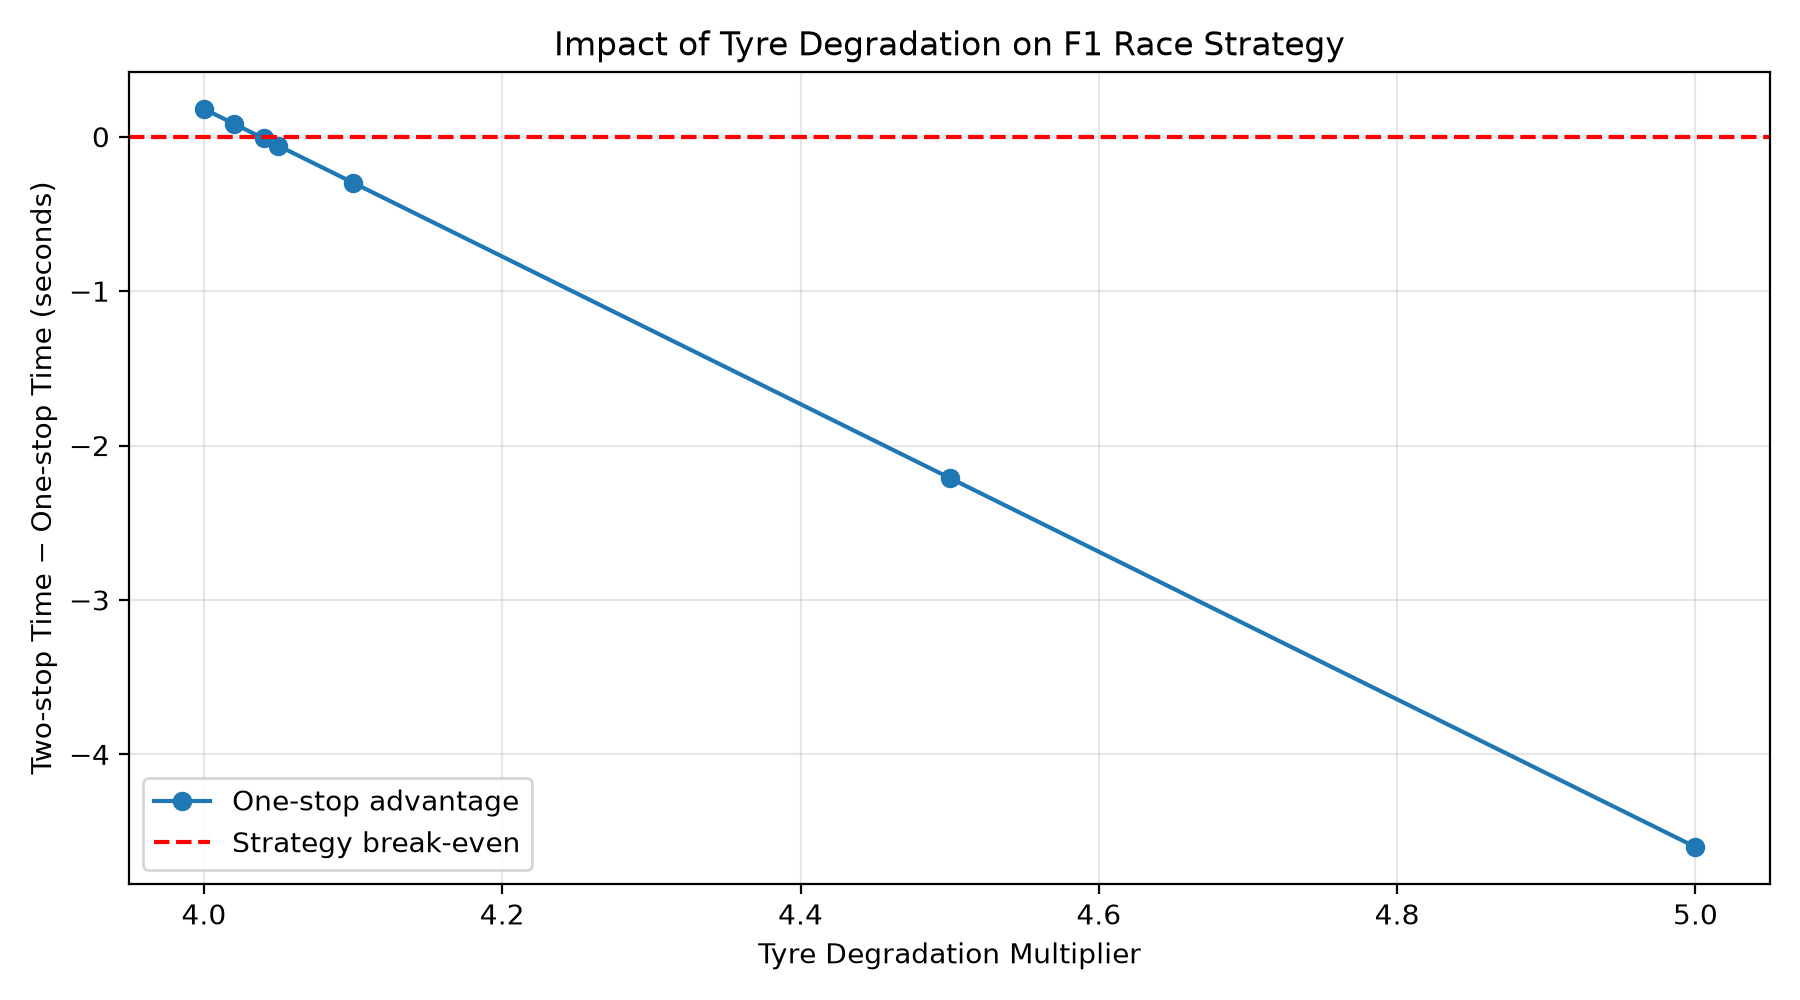
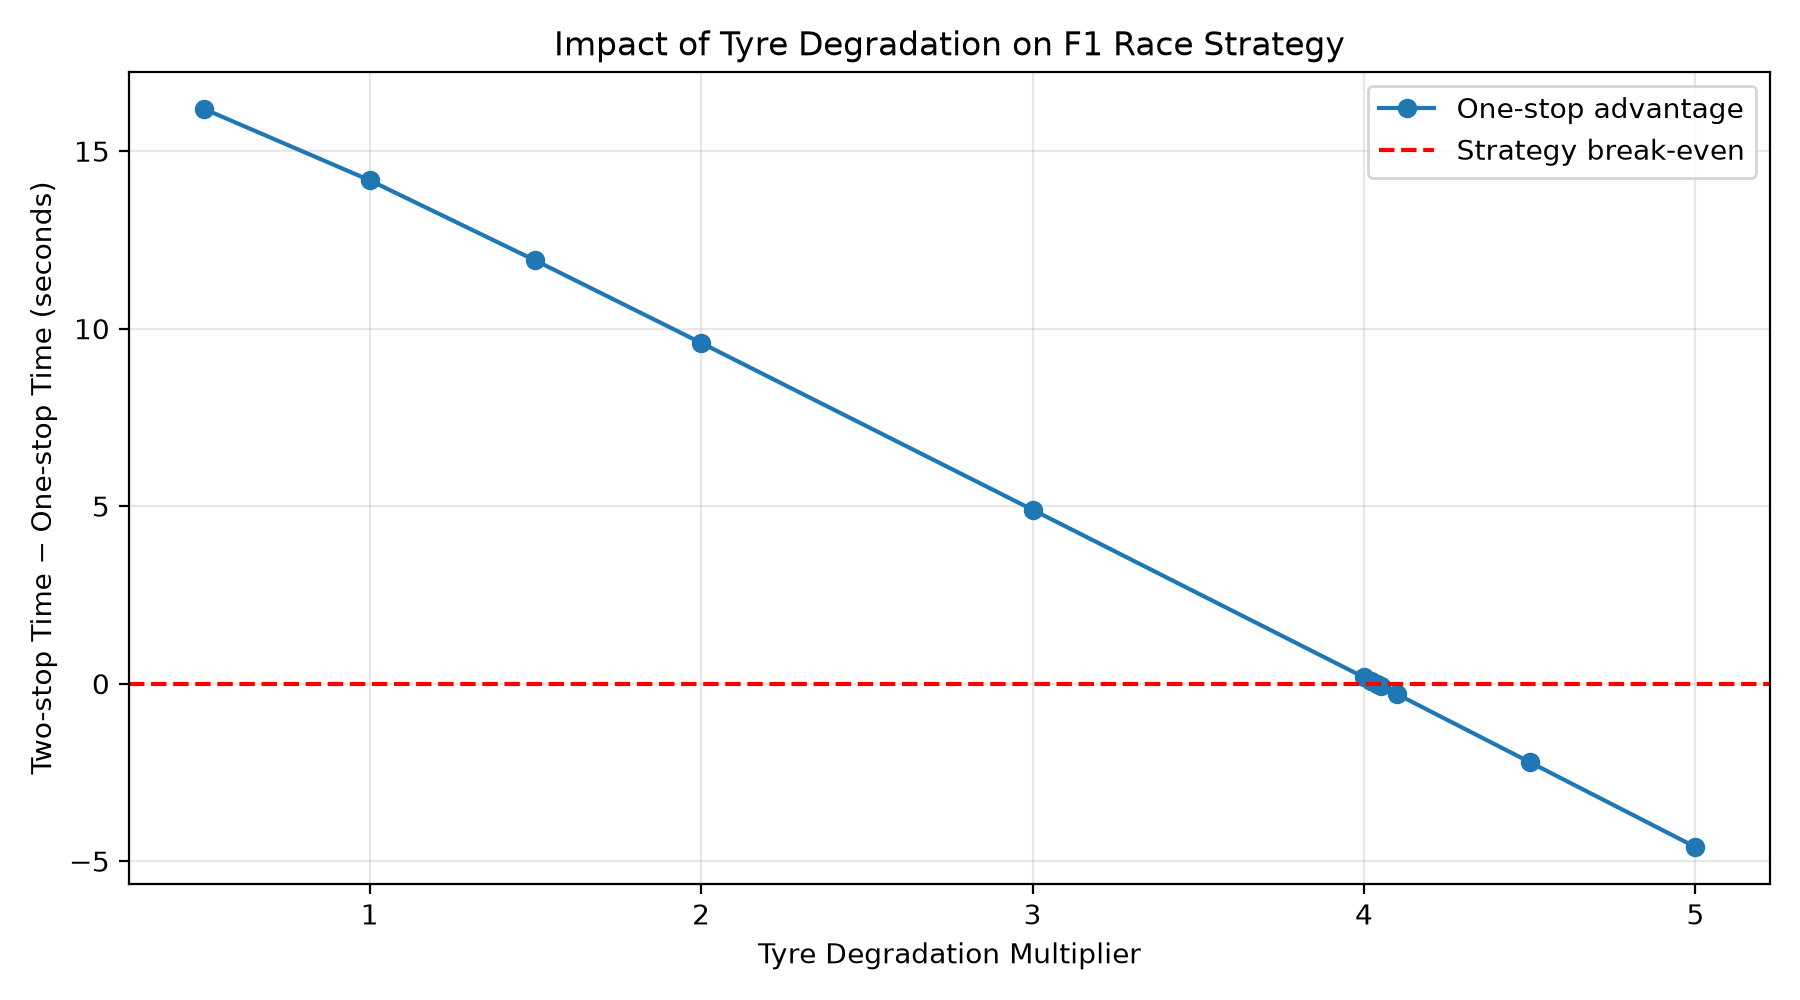
Improve simulator validation and add automated CI tests

diff --git a/src/simulator.py b/src/simulator.py
@@ -1,3 +1,5 @@
+import math
+
 def predict_lap_time(
     race_lap: int,
     tyre_age: int,
@@ -25,7 +27,7 @@ def simulate_stint(
 ) -> float:
 
     if start_lap < 1 or stint_length < 1:
-        raise ValueError("Start lap and string length must be positive")
+        raise ValueError("Start lap and stint length must be positive")
 
     total_time = 0.0
 
@@ -65,6 +67,11 @@ def simulate_strategy(
 
     if pit_loss < 0:
         raise ValueError("Pit loss cannot be negative")
+
+    parameters = base_paces + degradations + [fuel_effect, pit_loss]
+
+    if not all(math.isfinite(value) for value in parameters):
+        raise ValueError("Simulation parameters must be finite")
 
     total_time = 0.0
     start_lap = 1

diff --git a/experiments/degradation_experiment.py b/experiments/degradation_experiment.py
@@ -3,7 +3,21 @@ import csv
 from pathlib import Path
 
 def run_experiment():
-    degradation_factors = [4.0, 4.02, 4.04, 4.05, 4.1, 4.5, 5.0]
+    race_laps = 53
+    fuel_effect = 0.04
+    pit_loss = 22.0
+
+    medium_base_pace = 94.0
+    hard_base_pace = 94.3
+
+    medium_baseline_degradation = 0.04
+    hard_baseline_degradation = 0.02
+    
+    degradation_factors = [
+        0.5, 1.0, 1.5, 2.0, 3.0,
+        4.0, 4.02, 4.04, 4.05, 4.1, 4.5, 5.0
+    ]
+    
     results = []
 
     for factor in degradation_factors:

diff --git a/src/optimizer.py b/src/optimizer.py
@@ -116,7 +116,12 @@ if __name__ == "__main__":
     print(f"Two-stop time: {two_time:.2f} seconds")
 
     difference = abs(one_time - two_time)
-    winner = "One-stop" if one_time < two_time else "Two-stop"
+    if abs(one_time - two_time) < 1e-6:
+        winner = "Tie"
+    elif one_time < two_time:
+        winner = "One-stop"
+    else:
+        winner = "Two-stop"
 
     print(f"\nFastest strategy: {winner}")
     print(f"Advantage: {difference:.2f} seconds")

diff --git a/experiments/pit_loss_experiment.py b/experiments/pit_loss_experiment.py
@@ -23,7 +23,12 @@ def run_experiment():
 
         advantage = two_time - one_time
 
-        winner = "ONE-STOP" if advantage > 0 else "TWO-STOP"
+        if abs(advantage) < 0.005:
+            winner = "TIE"
+        elif advantage > 0:
+            winner = "ONE-STOP"
+        else:
+            winner = "TWO-STOP"
 
         print(
             f"Pit loss: {pit_loss:5.2f}s | "

diff --git a/tests/test_simulator.py b/tests/test_simulator.py
@@ -80,3 +80,13 @@ def test_negative_pit_loss():
             pit_loss=-5.0,
         )
 
+def test_non_finite_parameters():
+    with pytest.raises(ValueError):
+        simulate_strategy(
+            stint_lengths=[10, 10],
+            base_paces=[90.0, float("nan")],
+            degradations=[0.04, 0.02],
+            fuel_effect=0.04,
+            pit_loss=22.0,
+        )
+
